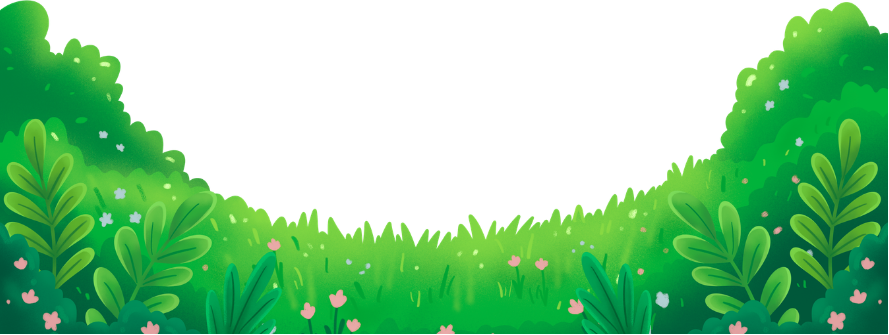
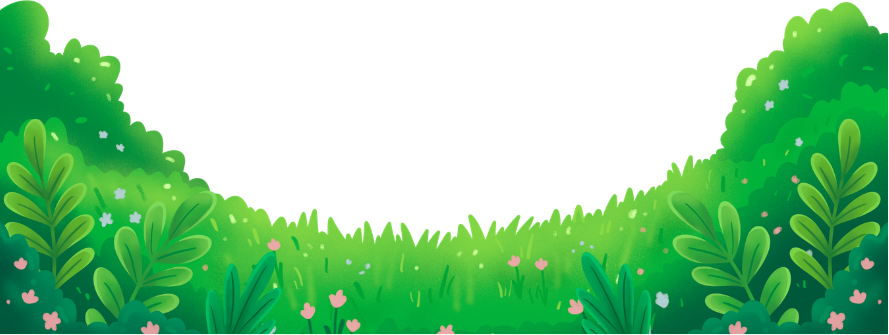
fix(layout): remove artificial CSS meadow-base gradient and extend sky background to 100%

Changed region(s): [[0.7593, 0.4776, 0.7897, 0.5075], [0.6985, 0.5672, 0.7289, 0.597]]

diff --git a/src/data/canvaLayout.js b/src/data/canvaLayout.js
@@ -29,44 +29,44 @@ export const canvaLayouts = {
   // ==========================================================
   page01: {
     // Judul Utama "BERAGAM BUDAYA INDONESIA"
-    title: { x: 1.33, y: 1.09, w: 5.80, h: 1.47, rotate: 0, zIndex: 10 },
+    title: { x: 1.33, y: 1.09, w: 5.87, h: 1.47, rotate: 2, zIndex: 10 },
 
     // Pita Emas (Background Subjudul)
-    ribbon: { x: 1.35, y: 2.25, w: 5.30, h: 1.46, rotate: 0, zIndex: 9 },
+    ribbon: { x: 2.07, y: 2.44, w: 4.11, h: 1.13, rotate: 0, zIndex: 9 },
 
     // Teks Subjudul "Cerita Nilai untuk Literasi Sosial" (di atas pita emas)
-    subtitle: { x: 2.91, y: 2.46, w: 2.60, h: 0.71, rotate: 0, zIndex: 10 },
+    subtitle: { x: 2.91, y: 2.48, w: 2.60, h: 0.65, rotate: 0, zIndex: 10 },
 
     // Burung Cenderawasih Kiri & Kanan
-    birdLeft:  { x: 0.43, y: 0.59, w: 1.29, h: 1.29, rotate: 0, zIndex: 5 },
-    birdRight: { x: 6.28, y: 0.56, w: 1.29, h: 1.29, rotate: 0, flipH: true, zIndex: 5 },
+    birdLeft:  { x: 0.43, y: 0.6, w: 1.21, h: 1.71, rotate: 0, zIndex: 5 },
+    birdRight: { x: 6.38, y: 0.55, w: 1.24, h: 1.76, rotate: 0, flipH: true, zIndex: 5 },
 
     // Gunung di sebelah kanan (di depan bukit / z-index 6)
-    mountain: { x: 4.80, y: 2.42, w: 3.50, h: 1.12, rotate: 0, zIndex: 6 },
+    mountain: { x: 4.19, y: 2.44, w: 6.07, h: 1.88, rotate: 0, zIndex: 5 },
 
     // Hamparan Bukit Hijau
-    hills: { x: 0.00, y: 2.76, w: 8.00, h: 2.83, rotate: 0, zIndex: 5 },
+    hills: { x: -1.62, y: 3.86, w: 13.9, h: 4.92, rotate: 0, zIndex: 6 },
 
     // Pohon Besar Kiri
-    tree: { x: -0.15, y: 3.82, w: 2.00, h: 2.10, rotate: 0, zIndex: 8 },
+    tree: { x: -0.33, y: 3.41, w: 2.2, h: 2.31, rotate: 0, zIndex: 8 },
 
     // Rumah Adat Nusantara (di atas bukit)
-    joglo:  { x: 1.73, y: 4.05, w: 0.94, h: 0.82, rotate: 0, zIndex: 7 }, // Jawa Tengah
-    honai:  { x: 2.38, y: 3.72, w: 1.40, h: 1.14, rotate: 0, zIndex: 7 }, // Papua
-    julang: { x: 5.20, y: 3.82, w: 1.36, h: 0.70, rotate: 0, zIndex: 7 }, // Jawa Barat
-    gadang: { x: 6.52, y: 3.49, w: 1.32, h: 0.80, rotate: 0, zIndex: 7 }, // Sumatra
+    joglo:  { x: 5.28, y: 3.27, w: 1.38, h: 1.2, rotate: 0, zIndex: 10 }, // Jawa Tengah
+    honai:  { x: 2.38, y: 3.72, w: 1.43, h: 1.13, rotate: 0, zIndex: 5 }, // Papua
+    julang: { x: 0.77, y: 3.88, w: 2.54, h: 1.27, rotate: 0, zIndex: 7 }, // Jawa Barat
+    gadang: { x: 6.49, y: 3.24, w: 2.1, h: 1.23, rotate: 0, zIndex: 7 }, // Sumatra
 
     // 4 Karakter Anak Nusantara
-    charSinta: { x: 1.60, y: 4.64, w: 1.50, h: 2.64, rotate: 0, zIndex: 12 },
-    charNaya:  { x: 2.86, y: 4.69, w: 1.40, h: 2.56, rotate: 0, zIndex: 12 },
-    charDanu:  { x: 3.96, y: 4.59, w: 1.46, h: 2.64, rotate: 0, zIndex: 12 },
-    charRafi:  { x: 5.14, y: 4.64, w: 1.46, h: 2.64, rotate: 0, zIndex: 12 },
+    charSinta: { x: 0.95, y: 4.76, w: 1.87, h: 3.9, rotate: 0, zIndex: 20 },
+    charNaya:  { x: 2.19, y: 4.33, w: 2.14, h: 4.24, rotate: 0, zIndex: 20 },
+    charDanu:  { x: 3.52, y: 4.24, w: 2.06, h: 4.16, rotate: 0, zIndex: 20 },
+    charRafi:  { x: 5.17, y: 4.41, w: 2.06, h: 4.25, rotate: 0, zIndex: 19 },
 
     // Dedaunan & Semak Depan Bawah
-    foliage: { x: 0.00, y: 4.98, w: 8.00, h: 3.02, rotate: 0, zIndex: 18 },
+    foliage: { x: -1.10, y: 5., w: 10.25, h: 4.70, rotate: 0, zIndex: 18 },
 
     // Bunga Rafflesia Kiri Bawah (Di depan semak / z-index 19)
-    flower: { x: 0.12, y: 5.48, w: 1.40, h: 0.85, rotate: 0, zIndex: 19 },
+    flower: { x: 0.12, y: 5.44, w: 2.04, h: 1.2, rotate: 0, zIndex: 19 },
   },
 
   // ==========================================================

diff --git a/src/components/pageRenderer.js b/src/components/pageRenderer.js
@@ -61,7 +61,6 @@ function renderPage01(data) {
       <img src="${assets.mountain}" alt="" class="layer layer-mountain" style="${getCanvaStyle('page01', 'mountain')}" draggable="false" />
 
       <!-- Layer 6: Hamparan Bukit & Padang Hijau -->
-      <div class="layer layer-meadow-base" aria-hidden="true"></div>
       <img src="${assets.hills}" alt="" class="layer layer-hills" style="${getCanvaStyle('page01', 'hills')}" draggable="false" />
 
       <!-- Layer 7: Rumah Adat Nusantara (di atas bukit) -->
@@ -150,7 +149,6 @@ function renderPage02(data) {
       <img src="${assets.mountain}" alt="" class="layer layer-p2-mountain" style="${getCanvaStyle('page02', 'mountain')}" draggable="false" />
 
       <!-- Layer 5: Hamparan Bukit & Padang Hijau -->
-      <div class="layer layer-p2-meadow-base" aria-hidden="true"></div>
       <img src="${assets.hills}" alt="" class="layer layer-p2-hills" style="${getCanvaStyle('page02', 'hills')}" draggable="false" />
 
       <!-- Layer 6: Rumah Adat Jawa Barat (terselip di belakang pohon) -->
@@ -230,7 +228,6 @@ function renderPage03(data) {
       <img src="${assets.mountain}" alt="" class="layer layer-p3-mountain" style="${getCanvaStyle('page03', 'mountain')}" draggable="false" />
 
       <!-- Layer 5: Hamparan Bukit Hijau -->
-      <div class="layer layer-p3-meadow-base" aria-hidden="true"></div>
       <img src="${assets.hills}" alt="" class="layer layer-p3-hills" style="${getCanvaStyle('page03', 'hills')}" draggable="false" />
 
       <!-- Layer 6: Buket Bunga Kiri & Kanan -->

diff --git a/src/style.css b/src/style.css
@@ -148,7 +148,7 @@ body {
   top: 0;
   left: 0;
   width: 100%;
-  height: 75%;
+  height: 100%;
   object-fit: cover;
   z-index: 1;
 }
@@ -252,15 +252,6 @@ body {
   width: 44%;
   height: auto;
   z-index: 6;
-}
-
-.layer-meadow-base {
-  left: 0;
-  right: 0;
-  bottom: 0;
-  height: 52%;
-  background: linear-gradient(180deg, #98d343 0%, #80bf31 30%, #5ba82a 100%);
-  z-index: 4;
 }
 
 .layer-hills {
@@ -405,7 +396,7 @@ body {
   top: 0;
   left: 0;
   width: 100%;
-  height: 75%;
+  height: 100%;
   object-fit: cover;
   z-index: 1;
 }
@@ -426,15 +417,6 @@ body {
   width: 70%;
   height: auto;
   z-index: 4;
-}
-
-.layer-p2-meadow-base {
-  left: 0;
-  right: 0;
-  bottom: 0;
-  height: 52%;
-  background: linear-gradient(180deg, #98d343 0%, #80bf31 30%, #5ba82a 100%);
-  z-index: 5;
 }
 
 .layer-p2-hills {
@@ -584,7 +566,7 @@ body {
   top: 0;
   left: 0;
   width: 100%;
-  height: 75%;
+  height: 100%;
   object-fit: cover;
   z-index: 1;
 }
@@ -596,15 +578,6 @@ body {
   height: auto;
   z-index: 4;
   pointer-events: none;
-}
-
-.layer-p3-meadow-base {
-  left: 0;
-  right: 0;
-  bottom: 0;
-  height: 52%;
-  background: linear-gradient(180deg, #98d343 0%, #80bf31 30%, #5ba82a 100%);
-  z-index: 5;
 }
 
 .layer-p3-hills {
